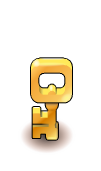
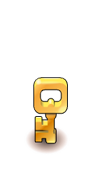
Generate random key

Changed region(s): [[0.2079, 0.3216, 0.7426, 0.8772]]

diff --git a/js/app.js b/js/app.js
@@ -89,7 +89,7 @@ class Enemy {
     }
 
     handleInput(keyInput) {
-
+      console.log(this.x, this.y);
       switch (keyInput) {
         case 'left':
         this.x < 101 ? this.x = this.x : this.x -= 101;
@@ -119,15 +119,51 @@ class Enemy {
     render() {
       ctx.drawImage(Resources.get(this.sprite), this.x, this.y);
     }
+
   }
 
-  let player = new Player();
+  // Key required for door to enter next level
+  class Key {
 
+    constructor() {
+      this.sprite = 'images/key.png';
+    }
+
+    setKey(posX, posY) {
+      this.x = posX;
+      this.y = posY;
+    }
+
+    hideKey() {
+      this.x = 200;
+      this.y = 800;
+    }
+
+    update() {
+      this.checkCollisions();
+    }
+
+    render() {
+      ctx.drawImage(Resources.get(this.sprite), this.x, this.y);
+    }
+
+    checkCollisions() { // If player pick up the key
+      if (this.x === player.x && this.y === player.y) {
+        // hide the key and look for door
+        gameMaster.isPlayerGetKey = true;
+      }
+    }
+  }
+
+
+  let key = new Key();
+
+  let player = new Player();
 
   let allEnemies = [];
   let allDecals = [];
 
-  // Game Master, control enemies, score, health, gems, levels...
+  // Game Master, controls enemies, score, health, gems, levels, key & door
   class GameMaster {
 
     constructor() {
@@ -142,6 +178,7 @@ class Enemy {
         this.characters.push(c);
       }
       this.charInd = 1;
+      this.isPlayerGetKey = false;
     }
 
     choosePlayer(num) {
@@ -172,6 +209,14 @@ class Enemy {
       player.init();
       allEnemies = [];
       allDecals = [];
+    }
+
+    generateKey() {
+      let randomX = Math.floor(Math.random() * 9) * 101;
+      let randomY = Math.floor(Math.random() * 7) * 83 - 38;
+      randomY = (randomY == -38) ? 45 : (randomY == 460) ? 377 : randomY;
+      console.log('Key postion: ', randomX, randomY);
+      key.setKey(randomX, randomY);
     }
 
     updateLives() {
@@ -219,6 +264,11 @@ class Enemy {
       if (this.isGameover) {
         this.gameOver();
       }
+
+      // Detect if player get the key
+      if (this.isPlayerGetKey) {
+        key.hideKey();
+      }
     }
 
     gameOver() {
@@ -232,6 +282,7 @@ class Enemy {
 
   const gameOverModal = document.querySelector('.gameover-modal');
   const gameStartMenu = document.querySelector('.start-menu');
+
 
   document.addEventListener('keydown', function(e) {
 
@@ -250,6 +301,7 @@ class Enemy {
         gameStartMenu.style.display = 'none';
         gameMaster.isGameStart = true;
         gameMaster.generateEnemies(6);
+        gameMaster.generateKey();
       } else if (e.keyCode === 37) { // select left hand player
         gameMaster.charInd <= 0 ? false : gameMaster.choosePlayer(-1);
       } else if (e.keyCode === 39) { // select right hand player

diff --git a/js/engine.js b/js/engine.js
@@ -96,6 +96,7 @@ var Engine = (function(global) {
             enemy.update(dt);
             enemy.checkCollisions();
         });
+        key.update();
         player.update();
         gameMaster.update();
     }
@@ -122,6 +123,8 @@ var Engine = (function(global) {
             numRows = 7,
             numCols = 9,
             row, col;
+
+        var keyImage = 'images/key.png';
 
         // Before drawing, clear existing canvas
         ctx.clearRect(0,0,canvas.width,canvas.height)
@@ -161,6 +164,8 @@ var Engine = (function(global) {
         allDecals.forEach(function(decal) {
           decal.render();
         });
+
+        key.render();
 
         player.render();
     }

diff --git a/index.html b/index.html
@@ -13,7 +13,6 @@
       <div>Life: <span id="lives">3</span></div>
       <div>Score:<span id="score">0</span></div>
       <div>Level: <span id="level">1</span></div>
-      <div>Time: <span id="time">00: 00</span></div>
     </div>
 
 
@@ -42,7 +41,7 @@
       </div>
 
       <div>
-        Choose character and press space bar to start
+        Choose character and press space to start
       </div>
     </div>
 

diff --git a/css/style.css b/css/style.css
@@ -51,7 +51,6 @@ canvas {
   justify-content: space-around;
 }
 
-
 .char {
   position: relative;
   z-index: 100;
